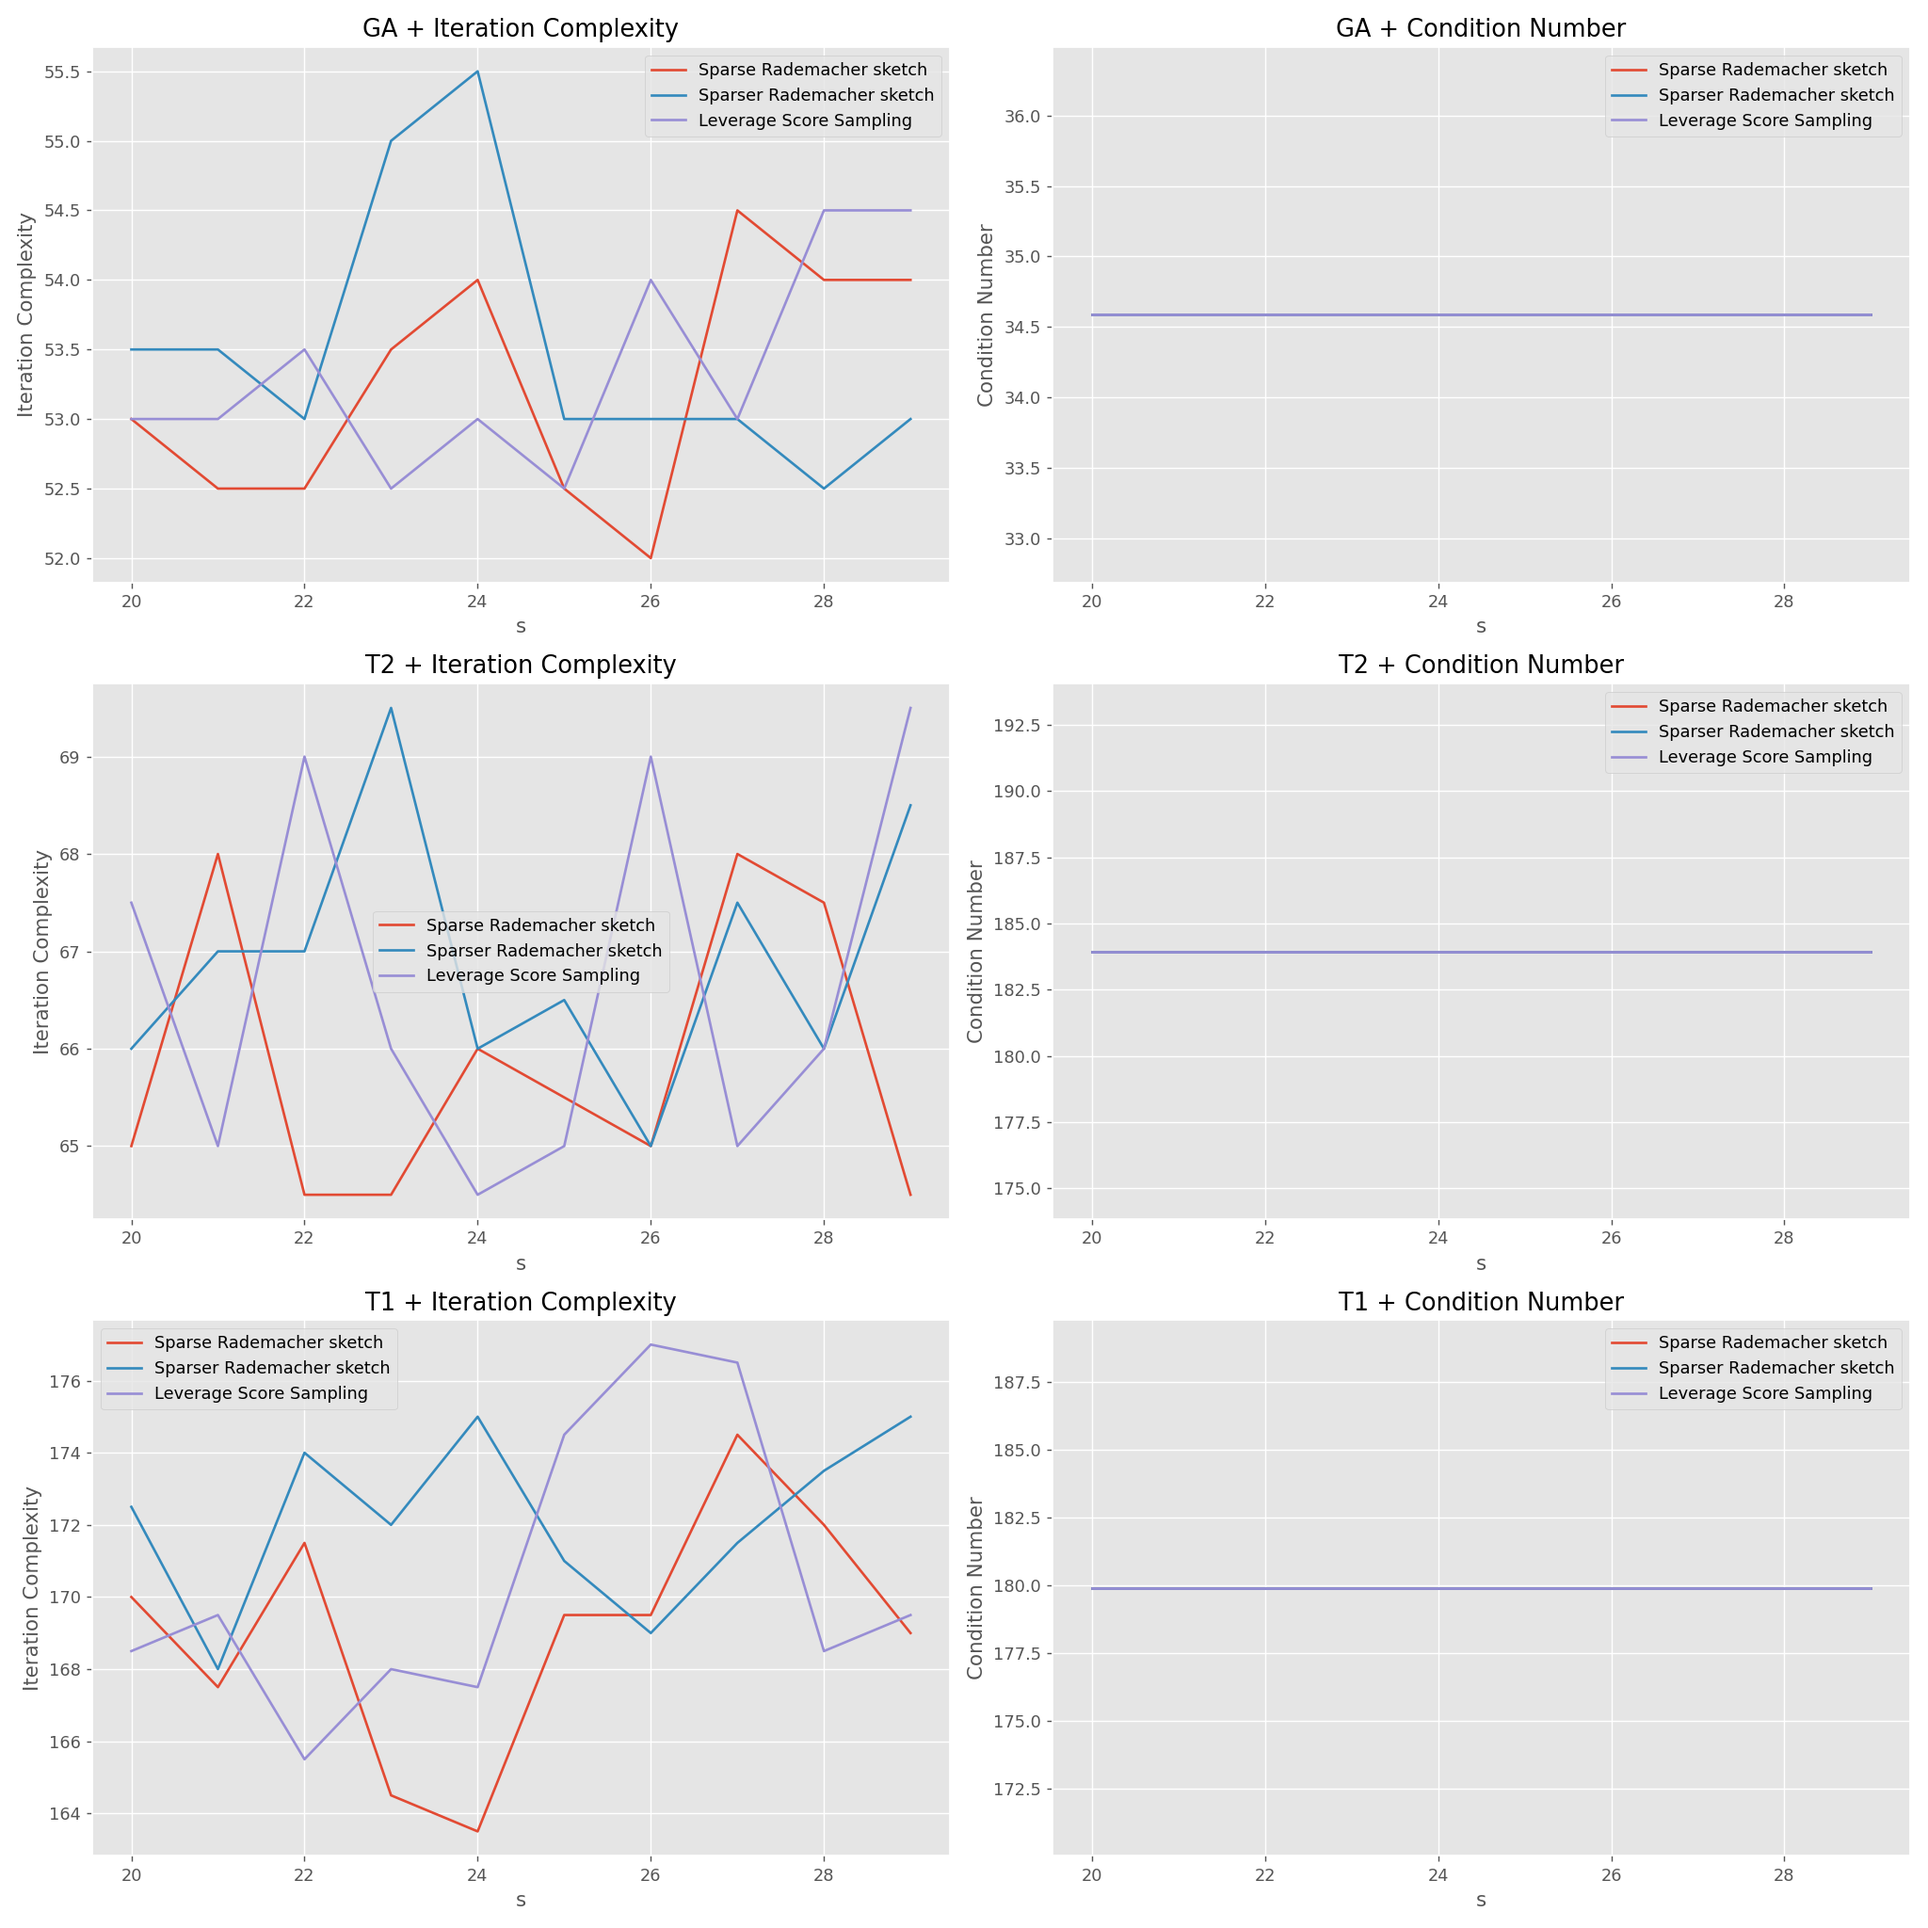
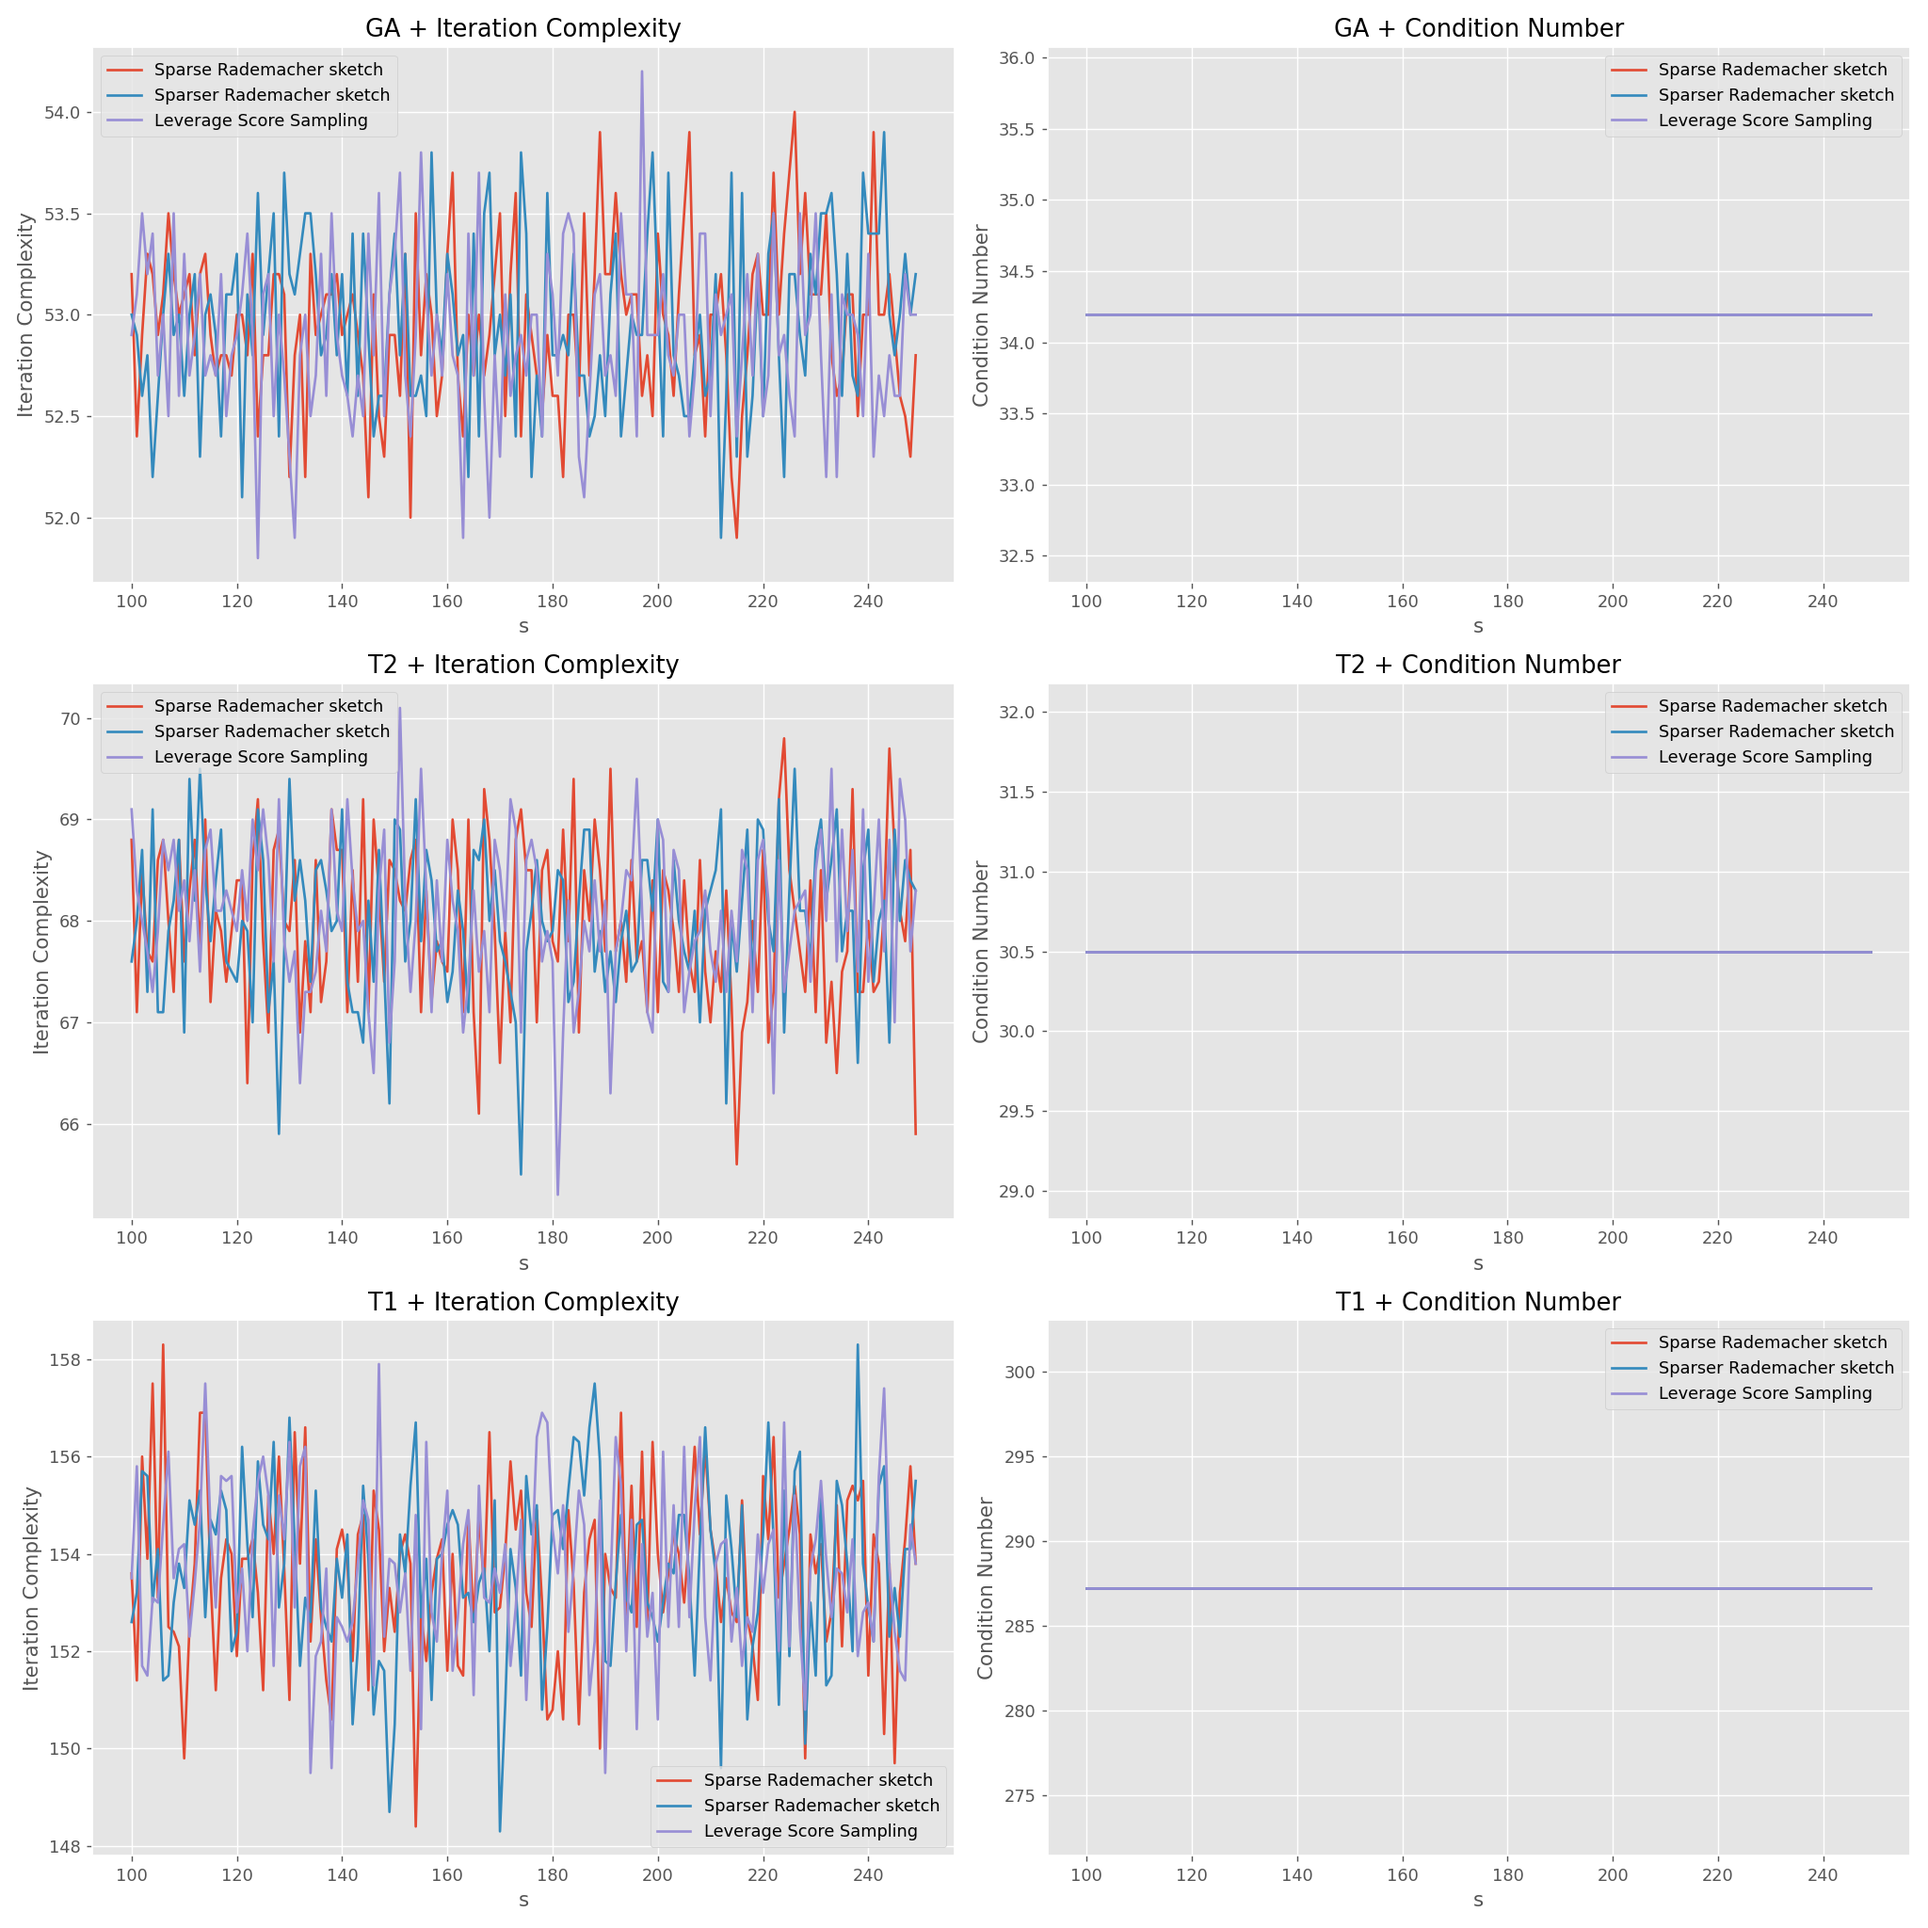
改了输出格式

diff --git a/hw2/main.py b/hw2/main.py
@@ -26,7 +26,7 @@ def get_metric(metric, approxer, A, s, **kwargs):
     results = tc.FloatTensor(results)
     return results.mean() , results.std()
 
-def main(precondition, figname):
+def main():
     plt.figure( figsize = (16 , 16) , dpi = 128 )
     plt.style.use('ggplot')
 
@@ -37,40 +37,36 @@ def main(precondition, figname):
         )):
             print (gene_idx , metric_idx)
 
-            sb = None # ensure name
-            if not precondition:
-                if metric_idx == 0: # skip Sketch and Solve
-                    continue
-                sb = plt.subplot( 3,2 , gene_idx * 2 + metric_idx)
-            else:
-                sb = plt.subplot( 3,3 , gene_idx * 3 + metric_idx + 1 )
+            sb = plt.subplot( 3,3 , gene_idx * 3 + metric_idx + 1 )
 
             sb.set_title("%s + %s" % (generator_name , metric_name))
             A = generator(n , d)
             for approx_idx , (approxer , approxer_name) in enumerate( zip(
                 [ rade_sketch_1 , rade_sketch_2 , leverage_score_sketch ] , 
-                [ "Sparse Rademacher sketch" , "Sparser Rademacher sketch" , "Leverage Score Sampling"]
+                [ "Sparse Rademacher sketch $q=0.1$" , "Sparse Rademacher sketch $q=0.01$" , "Leverage Score Sampling"]
             )):
                 mean_results = []
                 std_results = []
                 for s in tqdm( ss ):
-                    if metric_name in["Iteration Complexity" , "Condition Number"]:
-                        mean, std = get_metric(metric, approxer , A, s, precondition = precondition)
-                    else:
-                        mean, std = get_metric(metric, approxer , A, s)
+                    mean, std = get_metric(metric, approxer , A, s)
                     mean_results.append(mean)
                     std_results .append(std )
 
                 plt.plot( ss , mean_results , label = approxer_name)                    
                 # plt.fill_between( x , means[:,1] - std[:,1] , means[:,1] + std[:,1])
+            
+            if metric_name in["Iteration Complexity" , "Condition Number"]:
+                S = approxer(A , 1)
+                ref_res = metric(A, S, precondition = False) # a reference without precondition
+                plt.plot( ss , [ref_res for _ in ss] , label = "w/o pre-conditioning")         
+
 
             plt.xlabel("s")
             plt.ylabel(metric_name)
             plt.legend()
 
     plt.tight_layout()
-    plt.savefig( figname )
+    plt.savefig( "result" )
                 
 if __name__ == "__main__":
-    main(False, "result_without_precond")
-    main(True, "result_with_precond")
+    main()

diff --git a/hw2/metrics.py b/hw2/metrics.py
@@ -36,7 +36,7 @@ def sketch_and_solve(A, S):
 
 
 
-def iteration_complexity(A,S, precondition):
+def iteration_complexity(A,S, precondition = True):
     n, d = A.size()
     b = get_b(A)
 
@@ -63,7 +63,7 @@ def iteration_complexity(A,S, precondition):
     
     return iteration_num
     
-def condition_number(A,S,precondition):
+def condition_number(A,S,precondition = True):
     n, d = A.size()
     b = get_b(A)
 
